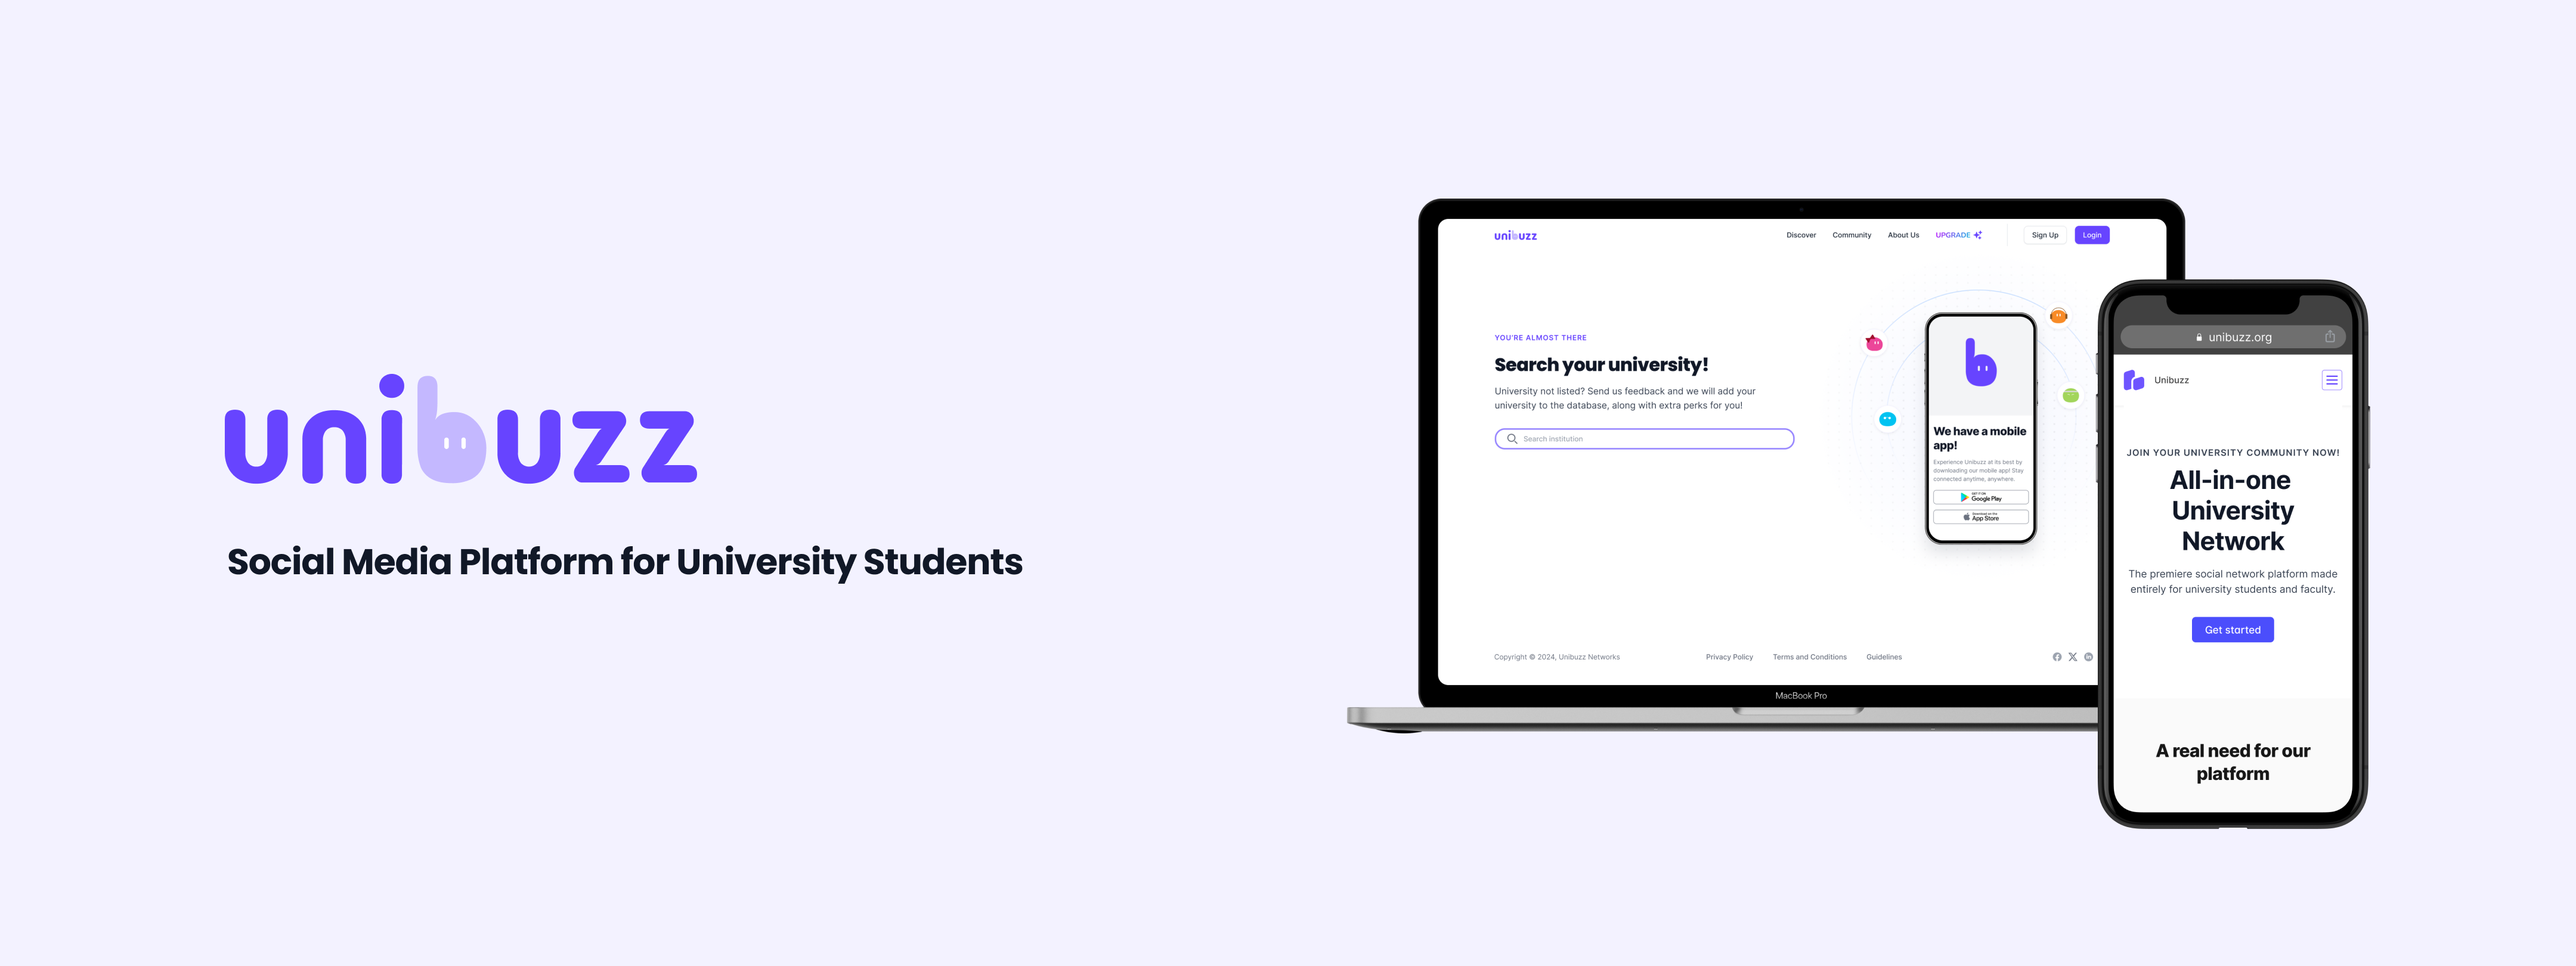
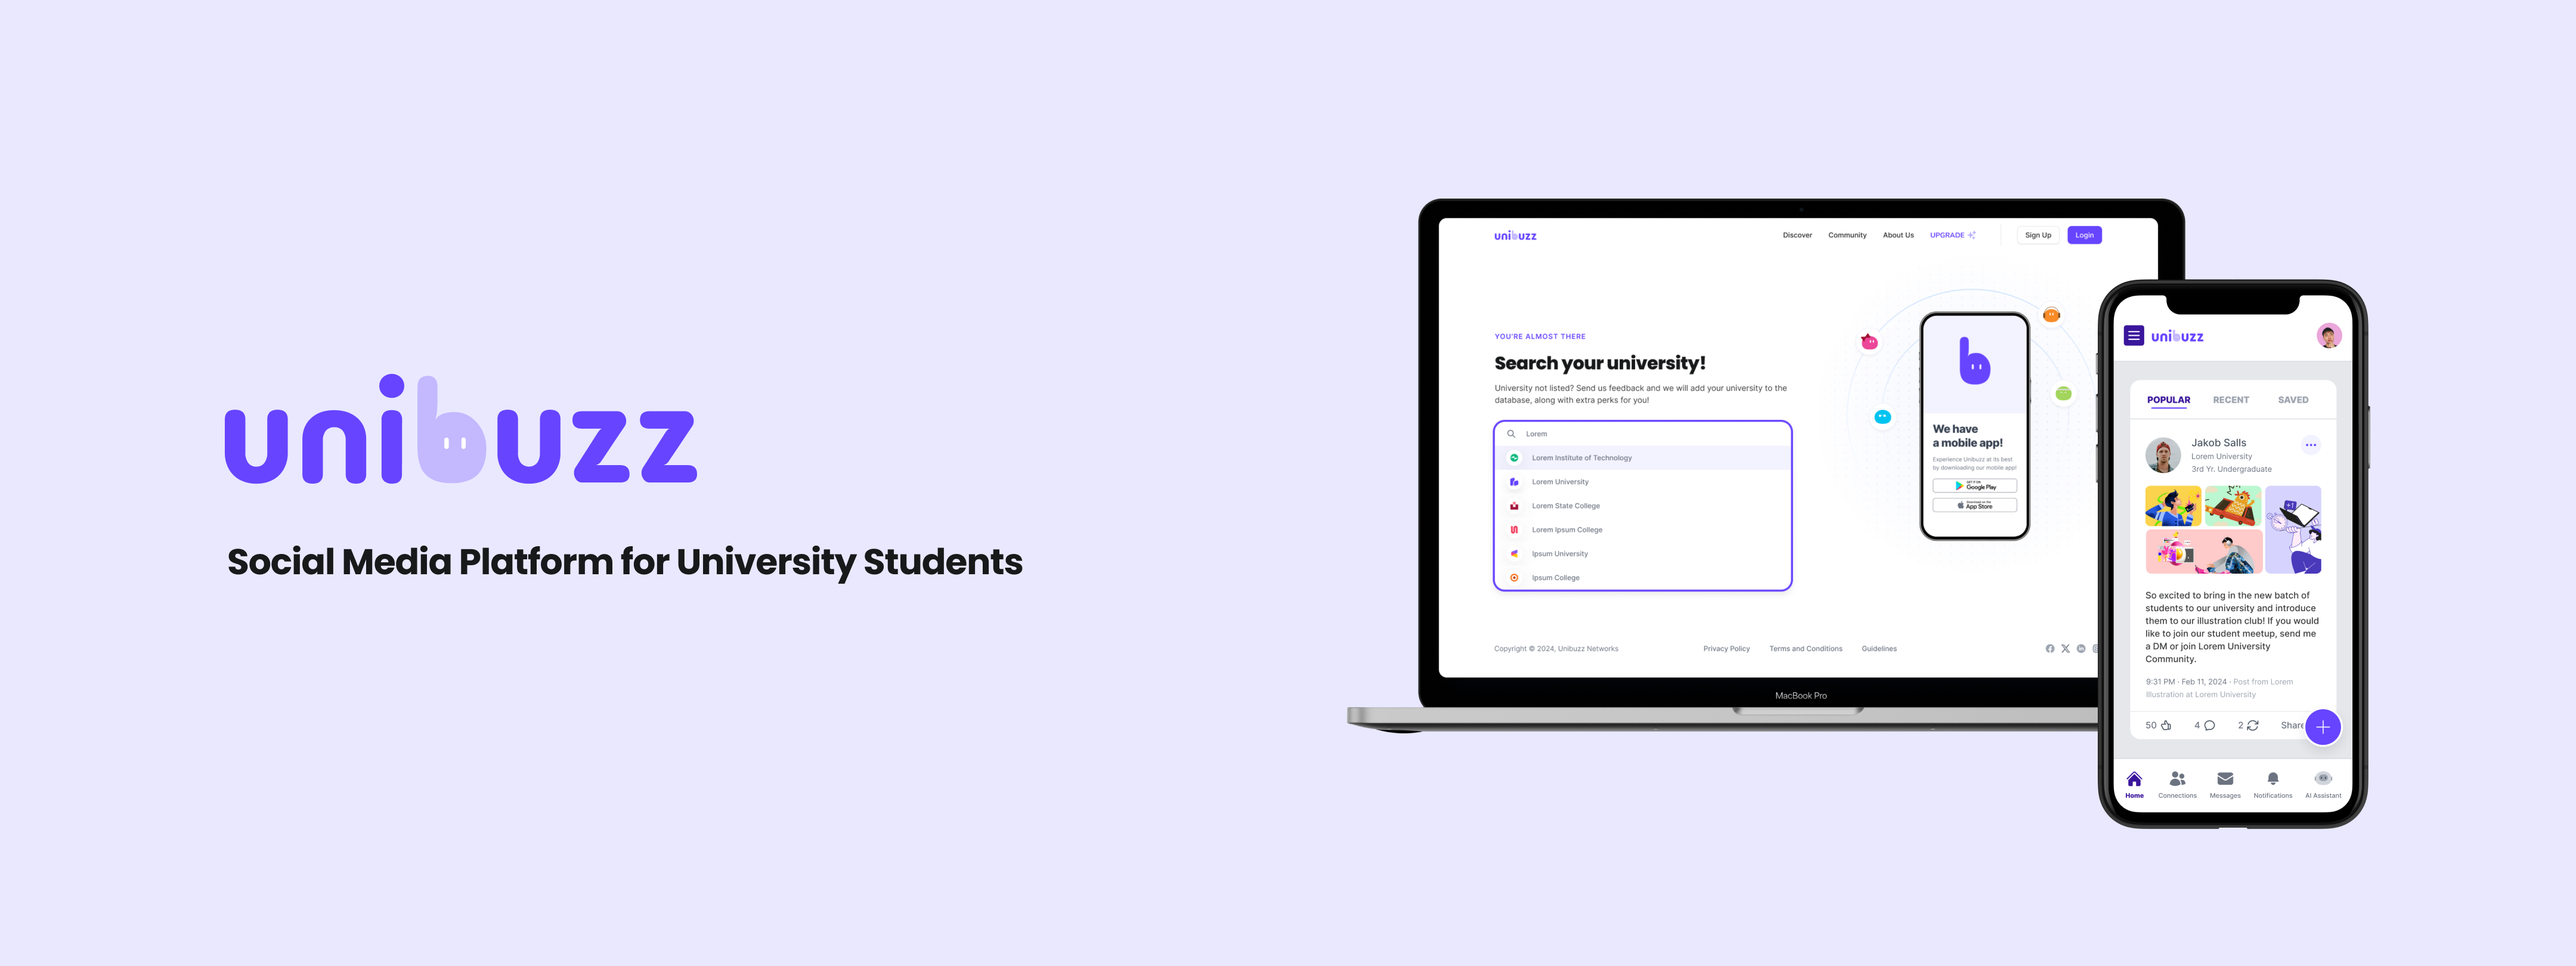
case-studies almost done

diff --git a/src/pages/Unibuzz.js b/src/pages/Unibuzz.js
@@ -7,17 +7,12 @@ import UnibuzzApproach from '../resources/unibuzz/unibuzz-agile.png';
 import UnibuzzInterview from '../resources/unibuzz/unibuzz-interview.png'
 import UnibuzzSystem from '../resources/unibuzz/unibuzz-system.png'
 import UnibuzzFlow from '../resources/unibuzz/unibuzz-flow.png'
-import FinalUI from '../resources/finalui.png';
-import OldProto2 from '../resources/old-filter-prototype2.gif'
-import OldFilter from '../resources/old-filter.png';
-import NewFilter from '../resources/new-filter.png';
-import NewProto from '../resources/new-filter-prototype.gif';
-import FinalProto from '../resources/final-proto2.gif'
 import ScrollProgress from '../components/ScrollProgress';
 import { useOutletContext } from 'react-router-dom';
 import Slider from '../components/Slider';
 import SliderReverse from '../components/SliderReverse';
 import UnibuzzProto from '../resources/unibuzz/unibuzz-proto-final.gif'
+import UnibuzzTokens from '../resources/unibuzz/unibuzz-tokens.png'
 
 
 
@@ -52,7 +47,7 @@ const Unibuzz = () => {
           <div className='img-container'>
             <img className= 'width-1200' src = { UnibuzzProblem } style= {{ boxShadow: '0px 6px 15px -2px rgba(16, 24, 40, 0.08), 0px 6px 15px -2px rgba(16, 24, 40, 0.08)'}}></img>
           </div>
-          <p>Many students face significant challenges when navigating the transition to university life, including the high cost of professional counseling services and the difficulty of finding authentic, firsthand information about universities and career paths. They often rely on scattered information from various online sources, leading to frustration and inefficiency in managing academic and social interactions. Additionally, students struggle to balance their personal and university lives, often lacking a clear distinction between the two, which can lead to confusion and missed opportunities. The market is overcrowded with numerous unfocused platforms, and no single solution effectively addresses the needs of university life.</p>
+          <p>Many students face significant challenges when navigating the transition to university life which includes finding authentic firsthand information about universities and career paths. They often rely on scattered information from various online sources, leading to frustration and inefficiency in managing academic and social interactions. Once enrolled, university students struggle to balance their personal and university lives. Lacking a clear distinction between the two can lead to confusion and missed opportunities. Currently the market is overcrowded with numerous unfocused platforms, and no single solution effectively addresses the needs of university life.</p>
         </div>
         </section>
         <section className='baby'>
@@ -61,7 +56,7 @@ const Unibuzz = () => {
           <div className='img-container'>
             <img className= 'width-1200' src = { UnibuzzObjective } style= {{ boxShadow: '0px 6px 15px -2px rgba(16, 24, 40, 0.08), 0px 6px 15px -2px rgba(16, 24, 40, 0.08)'}}></img>
           </div>
-          <p>As a UX/Product Designer, my objective with Unibuzz is to design a platform that meets the unique needs of university students and faculty. My primary focus is on designing a user experience that minimizes the need for multiple apps, and facilitates both academic and non-academic interactions. From a business standpoint, my goal is to drive user engagement and retention through thoughtful design, helping to establish Unibuzz as the preferred platform in the educational sector. To achieve this, I have to deliver high fidelity designs and prototypes for the eventual January 2025 launch. After launch, success will be measured by user engagement metrics, retention rates, and positive feedback on the user experience.</p>
+          <p>As a UX/Product Designer, my objective with Unibuzz is to design a platform that meets the unique needs of university students and faculty. My primary focus is on designing a user experience that minimizes the need for multiple apps, and facilitates both academic and non-academic interactions. From a business standpoint, my goal is to output high fidelity designs that can be used to attract possible investors to kickstart the project. With investments acquired, success will be measured by user engagement metrics, retention rates, and positive feedback on the user experience after MVP launch.</p>
         </div>
         </section>
         <section className='parent'>  
@@ -87,7 +82,7 @@ const Unibuzz = () => {
               <img className= 'width-1200' src = { UnibuzzInterview } style= {{ boxShadow: '0px 6px 15px -2px rgba(16, 24, 40, 0.08), 0px 6px 15px -2px rgba(16, 24, 40, 0.08)'}}></img> 
             </div>
             <div className='case-p'>
-              <p >Every digital product has a specific audience to target and focus on. In the case of Sip at Home, the target user happens to be every adult who is legally allowed to drink and has access to the internet. This means the age group ranges from 18 years and above, with no specific preference on gender, occupation, or location within South Korea. </p>
+              <p >User interviews were conducted to understand the demand of the product as well as specific user paint points and needs. University students residing in India, Australia, South Korea, Japan, and the United States of America participated in 1-on-1 on-site and remote interviews. The results of these interviews inform and affect all future design decisions.</p>
             </div>
           </section>
           <section className='child'>
@@ -100,7 +95,7 @@ const Unibuzz = () => {
               <img className= 'width-1200' src = { UnibuzzFlow } style= {{ boxShadow: '0px 6px 15px -2px rgba(16, 24, 40, 0.08), 0px 6px 15px -2px rgba(16, 24, 40, 0.08)'}}></img> 
             </div>
             <div className='case-p'>
-              <p >Every digital product has a specific audience to target and focus on. In the case of Sip at Home, the target user happens to be every adult who is legally allowed to drink and has access to the internet. This means the age group ranges from 18 years and above, with no specific preference on gender, occupation, or location within South Korea. </p>
+              <p >When I mapped the user journey flow for Unibuzz I focused on understanding every step a student takes while using the app. By mapping out their journey—from logging in and joining groups to posting updates and managing notifications—I was able to pinpoint areas where the user experience could be improved. Detailed user journey flows allows me to streamline interactions and address any potential issues students might face. </p>
             </div>
           </section>
           <section className='child'>
@@ -113,7 +108,7 @@ const Unibuzz = () => {
               <img className= 'width-1200' src = { UnibuzzSystem } style= {{ boxShadow: '0px 6px 15px -2px rgba(16, 24, 40, 0.08), 0px 6px 15px -2px rgba(16, 24, 40, 0.08)'}}></img> 
             </div>
             <div className='case-p'>
-              <p >Every digital product has a specific audience to target and focus on. In the case of Sip at Home, the target user happens to be every adult who is legally allowed to drink and has access to the internet. This means the age group ranges from 18 years and above, with no specific preference on gender, occupation, or location within South Korea. </p>
+              <p ><i>Unibuzz</i> design system can be quickly summarized into the foundations of color and typography. We believe that in order to reach as many students around the world as possible, the platform has to be visually accessible to all young adults around the world. By prioritizing clear and inclusive design elements, we strive to make the platform easily accessible and engaging for young adults everywhere. </p>
             </div>
           </section>
           <section className='child'>
@@ -132,10 +127,35 @@ const Unibuzz = () => {
                   <img className= 'width-1200' src = { UnibuzzProto} ></img> 
                   <h6>User onboarding sign up prototype flow for web desktop and mobile application.</h6>
           </div>
-          <div className='case-p'>
-              <p >Every digital product has a specific audience to target and focus on. In the case of Sip at Home, the target user happens to be every adult who is legally allowed to drink and has access to the internet. This means the age group ranges from 18 years and above, with no specific preference on gender, occupation, or location within South Korea. </p>
-          </div>
         </section>
+        <section className='child'>
+          <div className='unibuzz-case'>
+            <h3 className='step-title'>Design Tokens</h3>
+            <h4 className='section-title'>Super Fast Designing</h4> 
+            <span className='space'></span>
+          </div>
+            <div className='img-container'>
+              <img className= 'width-1200' src = { UnibuzzTokens } style= {{ boxShadow: '0px 6px 15px -2px rgba(16, 24, 40, 0.08), 0px 6px 15px -2px rgba(16, 24, 40, 0.08)'}}></img> 
+            </div>
+            <div className='img-container'>
+              <img className= 'width-1200' src = { UnibuzzTokens } style= {{ boxShadow: '0px 6px 15px -2px rgba(16, 24, 40, 0.08), 0px 6px 15px -2px rgba(16, 24, 40, 0.08)'}}></img> 
+              <h6>One of the few ways design tokens can save us a lot of time.</h6>
+            </div>
+            <div className='case-p'>
+              <p >Utilizing variables and tokens allows us to maintain a cohesive visual identity while quickly adapting to different contexts and needs. By defining color tokens, we ensure that our color palette remains consistent across various parts of the app. Typography tokens help us apply consistent text styles, which improves readability and user experience. They also allow for some really cool and super time efficient design hacks, such as fast dark mode transitions. </p>
+            </div>
+            </section>
+            <section className='child'>
+              <div className='unibuzz-case'>
+                <h3 className='step-title'>Nest Steps</h3>
+                <h4 className='section-title'>Product Launch: Q1 2025</h4> 
+                <span className='space'></span>
+              </div>
+              <div className='case-p'>
+                <p >As the UX designer for Unibuzz, I'm thrilled about our upcoming launch in 2025. We've been working diligently to create a platform that truly resonates with university students globally. So much time and labor has been poured on this project to ensure that the platform is easy to use and navigate. We've also integrated a lot of feedback from potential users to refine features and interactions. Our goal is to ultimately deliver a platform that supports both academic and social connections effectively to all university students around the world. We're looking forward to seeing how students will engage with <i>Unibuzz</i> and how it can enhance their university experience.</p>
+              </div>
+            </section>
+          
       </div>
     </main>
   );

diff --git a/src/components/Footer.js b/src/components/Footer.js
@@ -9,12 +9,13 @@ import X from '../resources/x.png';
 const Footer = () => {
   return (
     <footer>
+      <div className='profile-frame2'>
+          <h4>Let's Work Together!</h4>
+      </div>
       <div className='socials'>
-        <a  target='_blank' href='#'><div className='media-icon'><img src={Youtube} ></img></div></a>
         <a  target='_blank' href='#'><div className='media-icon'><img src={Linkedin} ></img></div></a>
         <a  target='_blank' href='#'><div className='media-icon'><img src={Dribbble} ></img></div></a>
         <a  target='_blank' href='#'><div className='media-icon'><img src={Instagram} ></img></div></a>
-        <a  target='_blank' href='#'><div className='media-icon'><img src={X} ></img></div></a>
       </div>
       <h3>Email: park.joohyun@outlook.com</h3>
     </footer>

diff --git a/src/pages/About.js b/src/pages/About.js
@@ -58,9 +58,7 @@ const About = () => {
             <p className='bullet'>&#x2022; &nbsp;  I like taking the initiative almost all the time. It sometimes puts me in an uncomfortable spot but I know that if I get through the uncomfortable experience it will stop being uncomfortable and more of a lesson to me. </p>
         </div>
       </div>
-      <div className='profile-frame2'>
-          <h4>Let's Help Each Other Out!</h4>
-      </div>
+      
     </div>
   );
 };

diff --git a/src/layouts/RootLayout.js b/src/layouts/RootLayout.js
@@ -26,7 +26,11 @@ const RootLayout = () => {
     scrollProgressColor = '#FDA5AF'; // Color for Sip page
   } else if (location.pathname.startsWith('/esports')) {
     scrollProgressColor = '#D4D4D4'; // Color for Esports page
+  } else if (location.pathname.startsWith('/about')) {
+    scrollProgressColor = 'none'; // Color for Esports page
   }
+  
+  
 
   useEffect(() => {
     if (scrollRef.current) {

diff --git a/src/pages/About.css b/src/pages/About.css
@@ -104,7 +104,7 @@
 .profile-frame2 > h4 {
     color: var(--Neutral-800, #333f50);
     font-family: 'Manrope';
-    font-size: 42px;
+    font-size: 24px;
     font-style: normal;
     font-weight: 900;
     line-height: normal;
@@ -145,7 +145,7 @@
     }
 
     .profile-frame2 > h4 {
-        font-size: 28px;
+        font-size: 12px;
     }
 
     .skill-logo {
